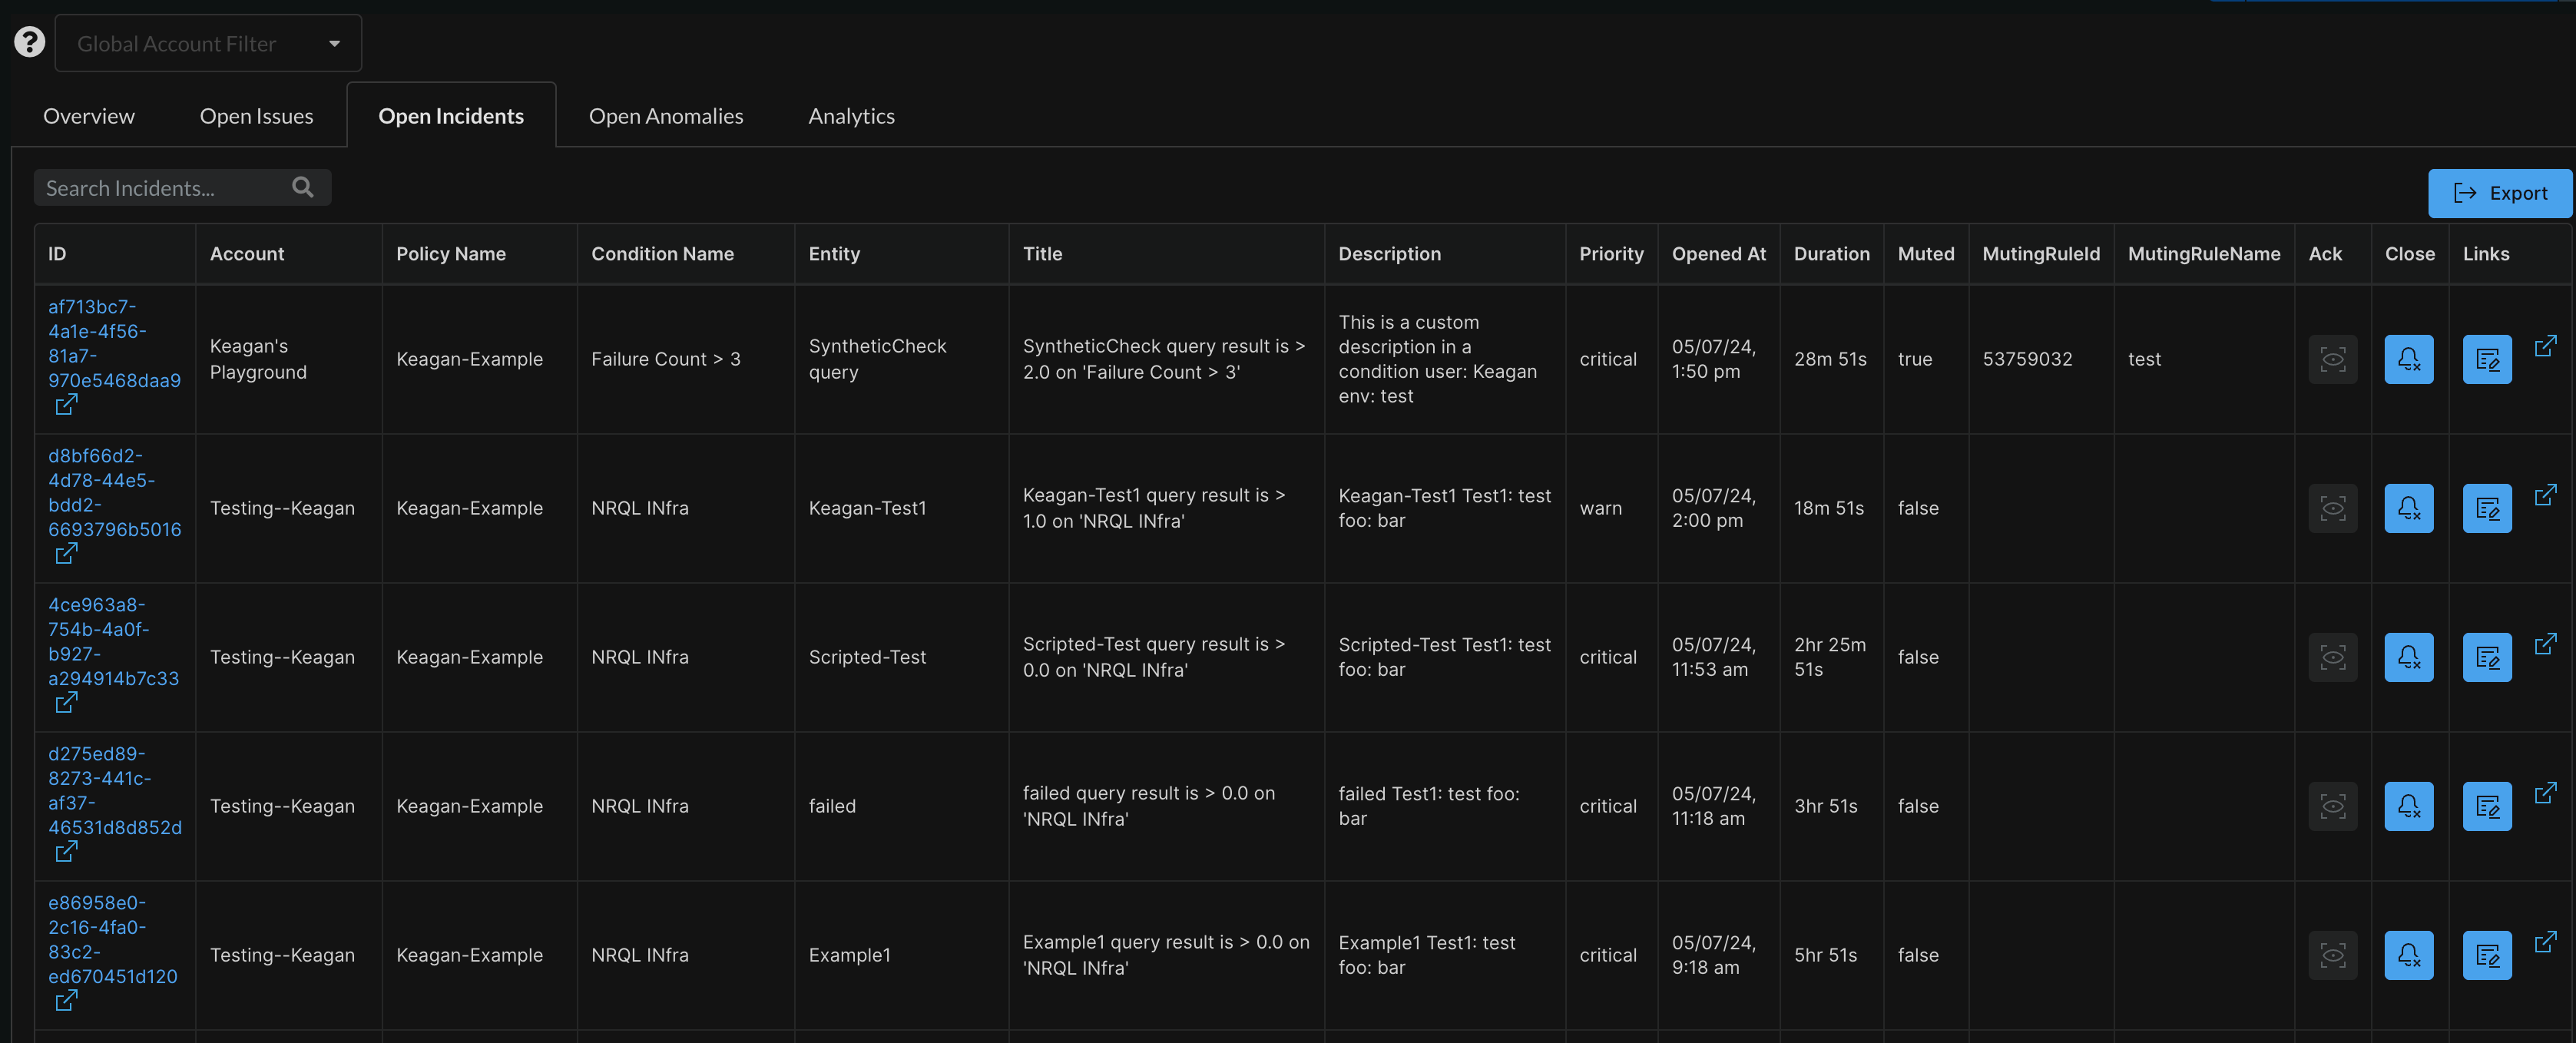
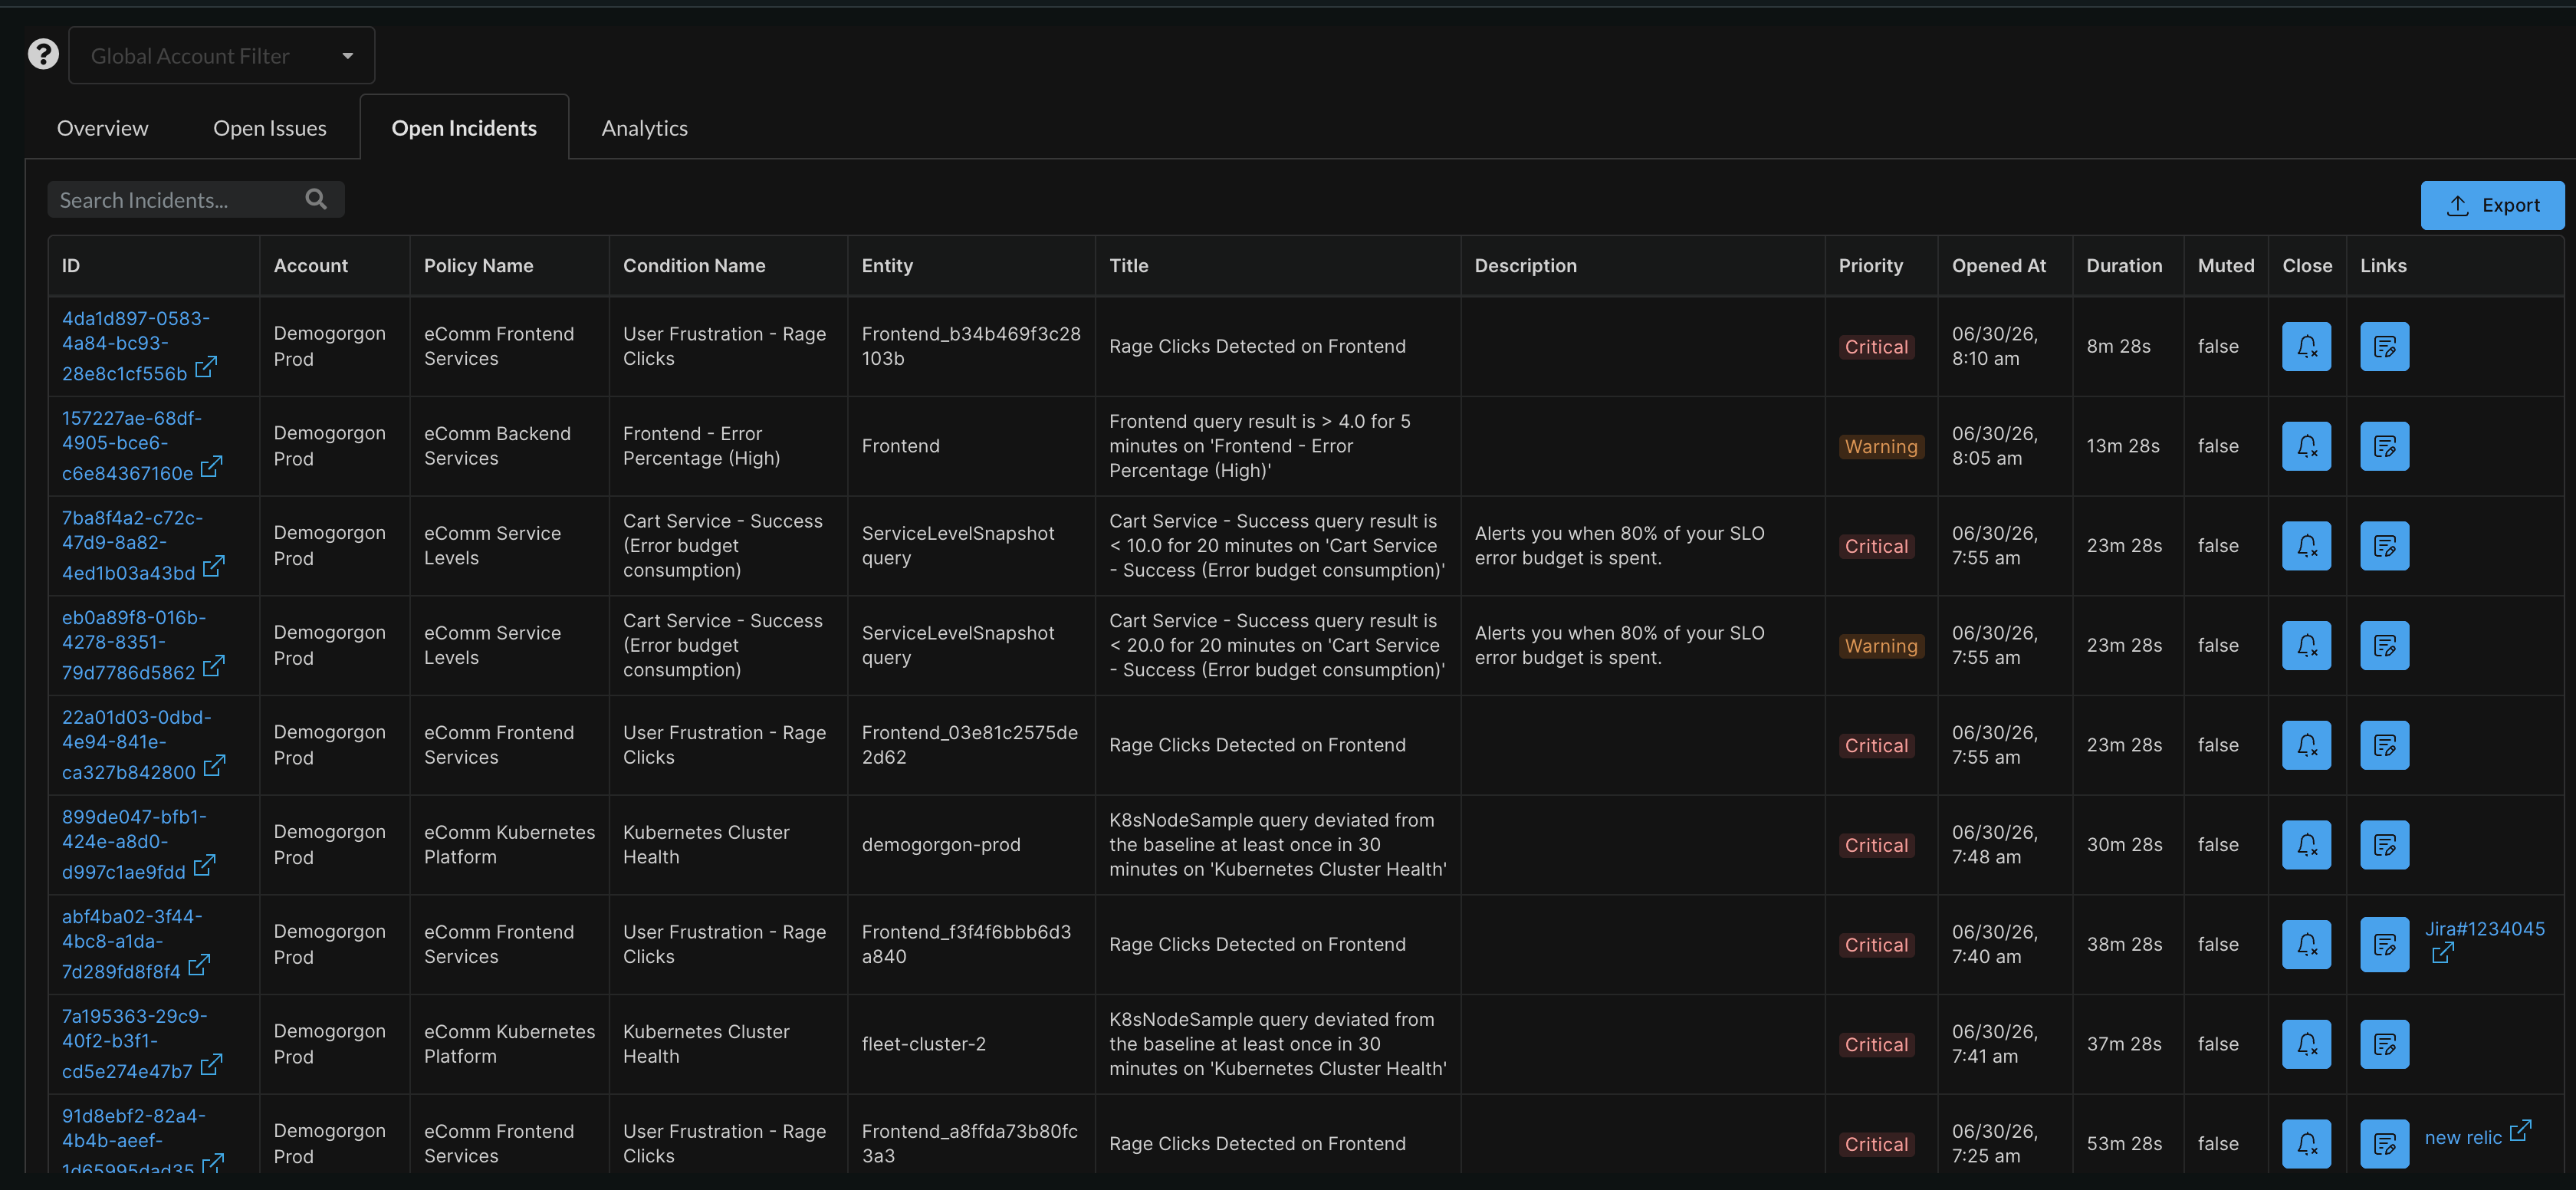
fix: minor bug fixes;update readme

diff --git a/nerdlets/command-center-v2-nerdlet/open-issues.js b/nerdlets/command-center-v2-nerdlet/open-issues.js
@@ -2,7 +2,6 @@ import React, {
   useCallback,
   useEffect,
   useMemo,
-  useRef,
   useState,
 } from 'react';
 import PropTypes from 'prop-types';
@@ -15,7 +14,9 @@ import {
   UserQuery,
 } from 'nr1';
 import { Input } from 'semantic-ui-react';
-import moment from 'moment';
+import dayjs from 'dayjs';
+import duration from 'dayjs/plugin/duration';
+dayjs.extend(duration);
 import orderBy from 'lodash/orderBy';
 import csvDownload from 'json-to-csv-export';
 
@@ -142,7 +143,6 @@ export default function OpenIssues({ accounts, nerdStoreAccount }) {
   const { fetchUserName } = useCurrentUser();
 
   const baseUrl = useMemo(() => buildBaseUrl(), []);
-  const tableExportableRef = useRef([]);
 
   const accountSignature = useMemo(
     () =>
@@ -154,7 +154,7 @@ export default function OpenIssues({ accounts, nerdStoreAccount }) {
   );
 
   const getTableData = useCallback(async () => {
-    const currTime = moment().format('LT');
+    const currTime = dayjs().format('h:mm A');
     try {
       const [storedLinks, storedAcks, perAccount] = await Promise.all([
         linksStore.load(),
@@ -169,14 +169,16 @@ export default function OpenIssues({ accounts, nerdStoreAccount }) {
           if (issue.acknowledgedBy) distinctAckIds.add(issue.acknowledgedBy);
         }
       }
-      // Resolve them in one batch (the cache inside useCurrentUser dedupes future hits too)
-      await Promise.all(
-        Array.from(distinctAckIds).map((id) => fetchUserName(id))
+      // Resolve all in parallel and build a Map for O(1) lookup below
+      const userNameEntries = await Promise.all(
+        Array.from(distinctAckIds).map(async (id) => [id, await fetchUserName(id)])
       );
+      const userNamesMap = new Map(userNameEntries);
 
       const flatTable = [];
-      const exportable = [];
-      const now = moment();
+      const now = dayjs();
+      const linksMap = new Map(storedLinks.map((lnk) => [String(lnk.id), lnk]));
+      const acksMap = new Map(storedAcks.map((ack) => [String(ack.id), ack]));
 
       for (const acctData of perAccount) {
         for (const issue of acctData.issues) {
@@ -184,39 +186,20 @@ export default function OpenIssues({ accounts, nerdStoreAccount }) {
           applyTagsToIssue(issue);
 
           const activatedSec = Number(issue.activatedAt) / 1000;
-          issue.duration = moment.duration(now.diff(moment.unix(activatedSec)));
+          issue.duration = dayjs.duration(now.diff(dayjs.unix(activatedSec)));
 
-          const entities =
-            issue.relatedEntityName != null
-              ? issue.relatedEntityName.toString()
-              : '';
-
-          const matchedLink = storedLinks.find(
-            (lnk) => String(issue.issueId) === String(lnk.id)
-          );
+          const matchedLink = linksMap.get(String(issue.issueId));
           issue.display = matchedLink?.document?.displayText ?? null;
           issue.link = matchedLink?.document?.linkText ?? null;
 
           if (issue.acknowledgedBy) {
-            issue.ackUser = (await fetchUserName(issue.acknowledgedBy)) || null;
+            issue.ackUser = userNamesMap.get(issue.acknowledgedBy) || null;
           } else {
-            const matchedAck = storedAcks.find(
-              (ack) => String(issue.issueId) === String(ack.id)
-            );
+            const matchedAck = acksMap.get(String(issue.issueId));
             issue.ackUser = matchedAck?.document?.user ?? null;
           }
 
           flatTable.push(issue);
-          exportable.push({
-            Account: acctData.account,
-            Title: issue.name,
-            IncidentCount: issue.incidentCount,
-            Entities: entities,
-            Priority: issue.priority,
-            Muted: issue.mutingState,
-            'Opened At': moment.unix(activatedSec).format('MM/DD/YYYY, h:mm a'),
-            Link: issue.link,
-          });
         }
       }
 
@@ -238,8 +221,6 @@ export default function OpenIssues({ accounts, nerdStoreAccount }) {
         }
       }
 
-      // Capture exportable on the table data via closure for CSV consumer
-      tableExportableRef.current = exportable;
     } catch (err) {
       console.debug('open-issues fetch failed', err);
       setOpenLoading(false);
@@ -289,20 +270,20 @@ export default function OpenIssues({ accounts, nerdStoreAccount }) {
     );
   }, [sortedRows, debouncedSearch]);
 
-  const exportableRows = useMemo(() => {
-    const needle = debouncedSearch.toLowerCase();
-    const all = tableExportableRef.current;
-    if (!needle) return all;
-    return all.filter(
-      (row) =>
-        row.Account.toLowerCase().includes(needle) ||
-        row.Title.toLowerCase().includes(needle) ||
-        (row.Priority || '').toLowerCase().includes(needle) ||
-        (row.Muted || '').toLowerCase().includes(needle) ||
-        (row.Entities || '').toLowerCase().includes(needle)
-    );
-    // depend on tableData so the memo re-runs whenever the underlying ref is updated
-  }, [debouncedSearch, tableData]);
+  const exportableRows = useMemo(
+    () =>
+      filteredRows.map((row) => ({
+        Account: row.accountName,
+        Title: row.name,
+        IncidentCount: row.incidentCount,
+        Entities: row.relatedEntityName != null ? row.relatedEntityName.toString() : '',
+        Priority: row.priority,
+        Muted: row.mutingState,
+        'Opened At': dayjs.unix(row.activatedAt / 1000).format('MM/DD/YYYY, h:mm a'),
+        Link: row.link,
+      })),
+    [filteredRows]
+  );
 
   const openLinkModal = useCallback((row) => {
     setLinkModal({ hidden: false, rowIssueId: row.issueId });

diff --git a/nerdlets/command-center-v2-nerdlet/components/IncidentsTable.js b/nerdlets/command-center-v2-nerdlet/components/IncidentsTable.js
@@ -2,7 +2,7 @@ import React, { memo } from 'react';
 import PropTypes from 'prop-types';
 import { Badge, Button, Tooltip } from 'nr1';
 import { Table } from 'semantic-ui-react';
-import moment from 'moment';
+import dayjs from 'dayjs';
 
 import { BADGE_TYPES } from '../constants';
 
@@ -156,7 +156,7 @@ function IncidentsTable({
                 </Badge>
               </Table.Cell>
               <Table.Cell>
-                {moment(row.openTime).format('MM/DD/YY, h:mm a')}
+                {dayjs(row.openTime).format('MM/DD/YY, h:mm a')}
               </Table.Cell>
               <Table.Cell>
                 {row.duration.get('days') > 0
@@ -202,14 +202,16 @@ function IncidentsTable({
                       Button.ICON_TYPE.DOCUMENTS__DOCUMENTS__NOTES__A_EDIT
                     }
                   />
-                  <a
-                    className="notesLink"
-                    href={row.link}
-                    target="_blank"
-                    rel="noreferrer"
-                  >
-                    {row.display}
-                  </a>
+                    {row.link && row.display && (
+                      <a
+                        className="notesLink"
+                        href={row.link}
+                        target="_blank"
+                        rel="noreferrer"
+                      >
+                        {row.display}
+                      </a>
+                    )}
                 </div>
               </Table.Cell>
             </Table.Row>

diff --git a/nerdlets/command-center-v2-nerdlet/open-violations.js b/nerdlets/command-center-v2-nerdlet/open-violations.js
@@ -9,7 +9,9 @@ import {
   Toast,
 } from 'nr1';
 import { Input } from 'semantic-ui-react';
-import moment from 'moment';
+import dayjs from 'dayjs';
+import duration from 'dayjs/plugin/duration';
+dayjs.extend(duration);
 import orderBy from 'lodash/orderBy';
 import csvDownload from 'json-to-csv-export';
 
@@ -63,10 +65,10 @@ async function fetchViolationData(aRecord, viosCsv, time) {
     return [];
   }
   const vioData = res.data.actor.account.nrql.results;
-  const now = moment();
+  const now = dayjs();
   for (const vio of vioData) {
-    const end = moment(vio.openTime);
-    vio.duration = moment.duration(now.diff(end));
+    const end = dayjs(vio.openTime);
+    vio.duration = dayjs.duration(now.diff(end));
     vio.accountName = aRecord.account;
   }
   return vioData;
@@ -80,7 +82,7 @@ function buildExportable(formattedTable) {
     Entity: row.targetName,
     Description: row.title,
     Priority: row.priority,
-    'Opened At': moment(row.openTime).format('MM/DD/YYYY, h:mm a'),
+    'Opened At': dayjs(row.openTime).format('MM/DD/YYYY, h:mm a'),
     Muted: row.muted.toString(),
     MutingRuleId: row.mutingRuleId == null ? null : row.mutingRuleId,
     MutingRuleName: row.mutingRuleName == null ? null : row.mutingRuleName,
@@ -135,7 +137,7 @@ export default function OpenIncidents({ time, accounts, nerdStoreAccount }) {
   );
 
   const getTableData = useCallback(async () => {
-    const currTime = moment().format('LT');
+    const currTime = dayjs().format('h:mm A');
     try {
       const storedLinks = await links.load();
       const idsByAccount = await Promise.all(
@@ -155,10 +157,9 @@ export default function OpenIncidents({ time, accounts, nerdStoreAccount }) {
       );
 
       const formattedTable = dataChunks.flat();
+      const linksMap = new Map(storedLinks.map((lnk) => [String(lnk.id), lnk]));
       for (const row of formattedTable) {
-        const match = storedLinks.find(
-          (lnk) => Number(lnk.id) === row.incidentId
-        );
+        const match = linksMap.get(String(row.incidentId));
         row.display = match?.document?.displayText ?? null;
         row.link = match?.document?.linkText ?? null;
       }

diff --git a/nerdlets/command-center-v2-nerdlet/components/IssuesTable.js b/nerdlets/command-center-v2-nerdlet/components/IssuesTable.js
@@ -2,7 +2,7 @@ import React, { memo } from 'react';
 import PropTypes from 'prop-types';
 import { Badge, Button, Tooltip } from 'nr1';
 import { Table } from 'semantic-ui-react';
-import moment from 'moment';
+import dayjs from 'dayjs';
 
 import { BADGE_TYPES } from '../constants';
 
@@ -117,7 +117,7 @@ function IssuesTable({
                   </Badge>
                 </Table.Cell>
                 <Table.Cell>
-                  {moment.unix(activatedSec).format('MM/DD/YY, h:mm a')}
+                  {dayjs.unix(activatedSec).format('MM/DD/YY, h:mm a')}
                 </Table.Cell>
                 <Table.Cell>
                   {row.duration.get('days') > 0

diff --git a/nerdlets/command-center-v2-nerdlet/hooks/useNerdStoreCollection.js b/nerdlets/command-center-v2-nerdlet/hooks/useNerdStoreCollection.js
@@ -6,7 +6,7 @@ export default function useNerdStoreCollection(accountId, collection) {
     const res = await AccountStorageQuery.query({
       accountId,
       collection,
-      fetchPolicyType: AccountStorageQuery.FETCH_POLICY_TYPE.CACHE_FIRST,
+      fetchPolicyType: AccountStorageQuery.FETCH_POLICY_TYPE.NETWORK_ONLY,
     });
     return res?.data || [];
   }, [accountId, collection]);

diff --git a/README.md b/README.md
@@ -46,7 +46,7 @@ nr1 nerdpack:serve
 Visit [https://one.newrelic.com/?nerdpacks=local](https://one.newrelic.com/?nerdpacks=local), navigate to the Nerdpack, and :sparkles:
 
 ## Configuration
-Update `config.json` located under `./nerdlets/` with your accountId, refreshRate (in milliseconds), and optional template dashboard name that will be linked to each account (if it exists in that account) within the Analytics tab. The refreshRate variable controls how often the Open* pages are refreshed automatically.
+Update `config.json` located under `./nerdlets/` with your accountId, refreshRate (in milliseconds), and optional template dashboard name that will be linked to each account (dashboard needs to exist in each account) within the Analytics tab. The refreshRate variable controls how often the `Open*` pages are refreshed automatically.
 
 ## Deploying this Nerdpack
 
@@ -66,20 +66,28 @@ nr1 nerdpack:subscribe [-c [DEV|BETA|STABLE]] [--profile=your_profile_name]
 
 Visit [https://one.newrelic.com](https://one.newrelic.com), navigate to the Nerdpack, and :sparkles:
 
-## Issues / Enhancement Requests
+## Support
 
-Issues and enhancement requests can be submitted in the [Issues tab of this repository](https://github.com/newrelic-experimental/nr1-command-center-v2/issues). Please search for and review the existing open issues before submitting a new issue.
+<a href="https://github.com/newrelic?q=nrlabs-viz&amp;type=all&amp;language=&amp;sort="><img src="https://user-images.githubusercontent.com/1786630/214122263-7a5795f6-f4e3-4aa0-b3f5-2f27aff16098.png" height=50 /></a>
 
-## Contributing
+This project is actively maintained by the New Relic Labs team. Connect with us directly by [creating issues](../../issues) or [asking questions in the discussions section](../../discussions) of this repo.
 
-We encourage your contributions to improve Command Center! Keep in mind when you submit your pull request, you'll need to sign the CLA via the click-through using CLA-Assistant. You only have to sign the CLA one time per project.
-If you have any questions, or to execute our corporate CLA, required if your contribution is on behalf of a company,  please drop us an email at [email redacted].
+We also encourage you to bring your experiences and questions to the [Explorers Hub](https://discuss.newrelic.com) where our community members collaborate on solutions and new ideas.
 
-**A note about vulnerabilities**
+New Relic has open-sourced this project, which is provided AS-IS WITHOUT WARRANTY OR DEDICATED SUPPORT.
 
-As noted in our [security policy](../../security/policy), New Relic is committed to the privacy and security of our customers and their data. We believe that providing coordinated disclosure by security researchers and engaging with the security community are important means to achieve our security goals.
+## Security
+
+As noted in our [security policy](https://github.com/newrelic/nr-labs-pages/security/policy), New Relic is committed to the privacy and security of our customers and their data. We believe that providing coordinated disclosure by security researchers and engaging with the security community are important means to achieve our security goals.
 
 If you believe you have found a security vulnerability in this project or any of New Relic's products or websites, we welcome and greatly appreciate you reporting it to New Relic through [HackerOne](https://hackerone.com/newrelic).
 
-## License
-Command Center is licensed under the [Apache 2.0](http://apache.org/licenses/LICENSE-2.0.txt) License.
+## Contributing
+
+Contributions are welcome (and if you submit a Enhancement Request, expect to be invited to contribute it yourself :grin:). Please review our [Contributors Guide](CONTRIBUTING.md).
+
+Keep in mind that when you submit your pull request, you'll need to sign the CLA via the click-through using CLA-Assistant. If you'd like to execute our corporate CLA, or if you have any questions, please drop us an email at [email redacted].
+
+## Open Source License
+
+This project is distributed under the [Apache 2 license](LICENSE).